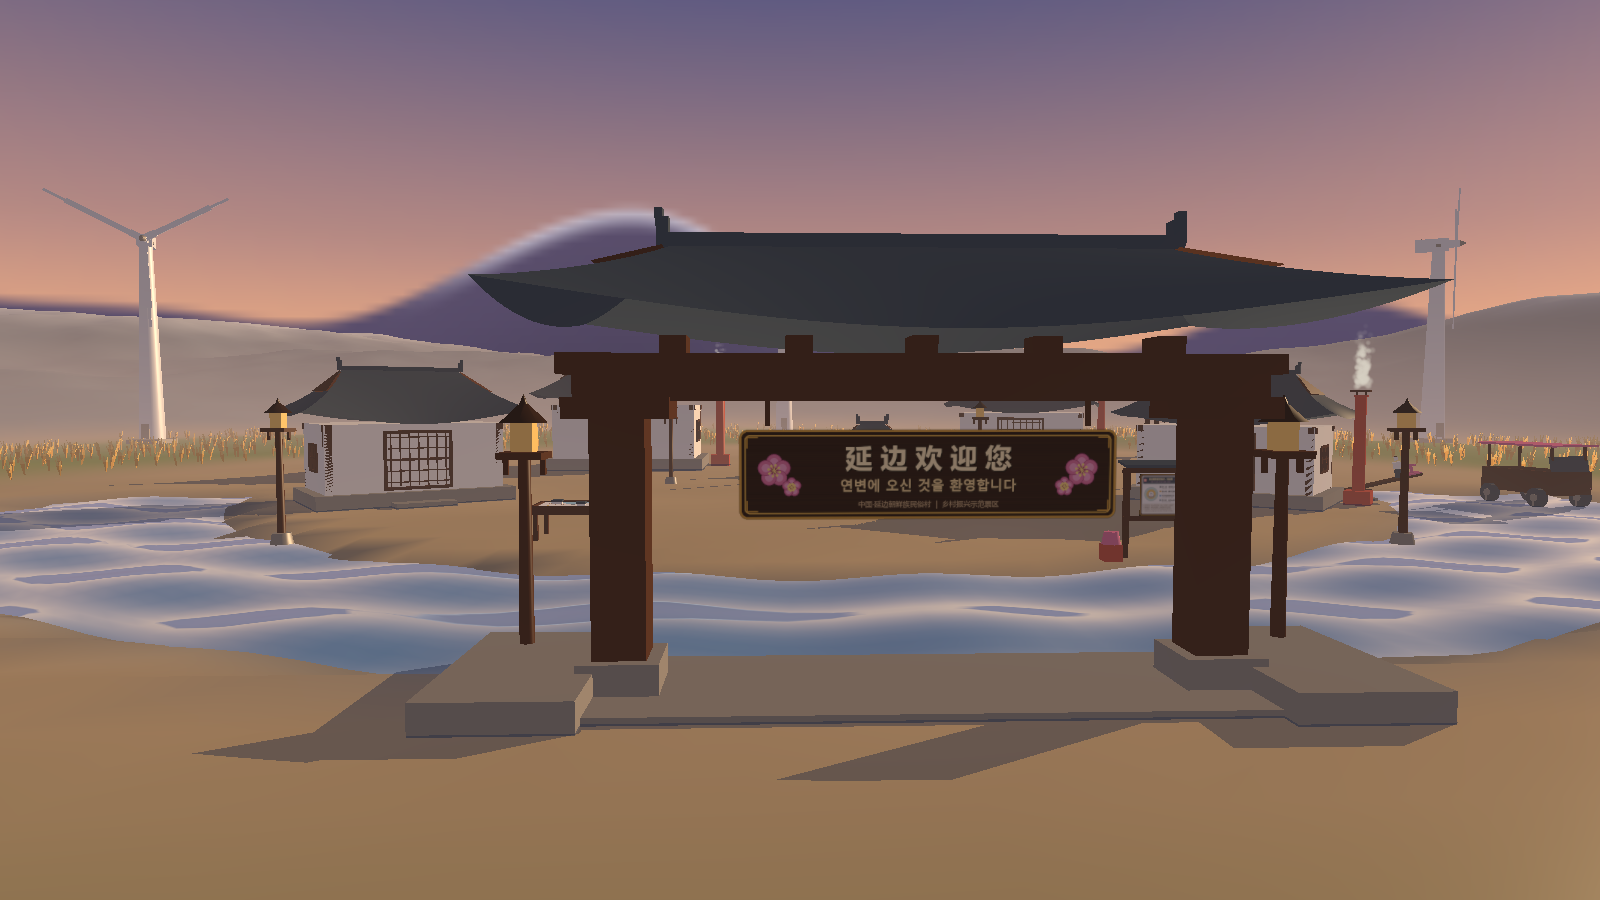
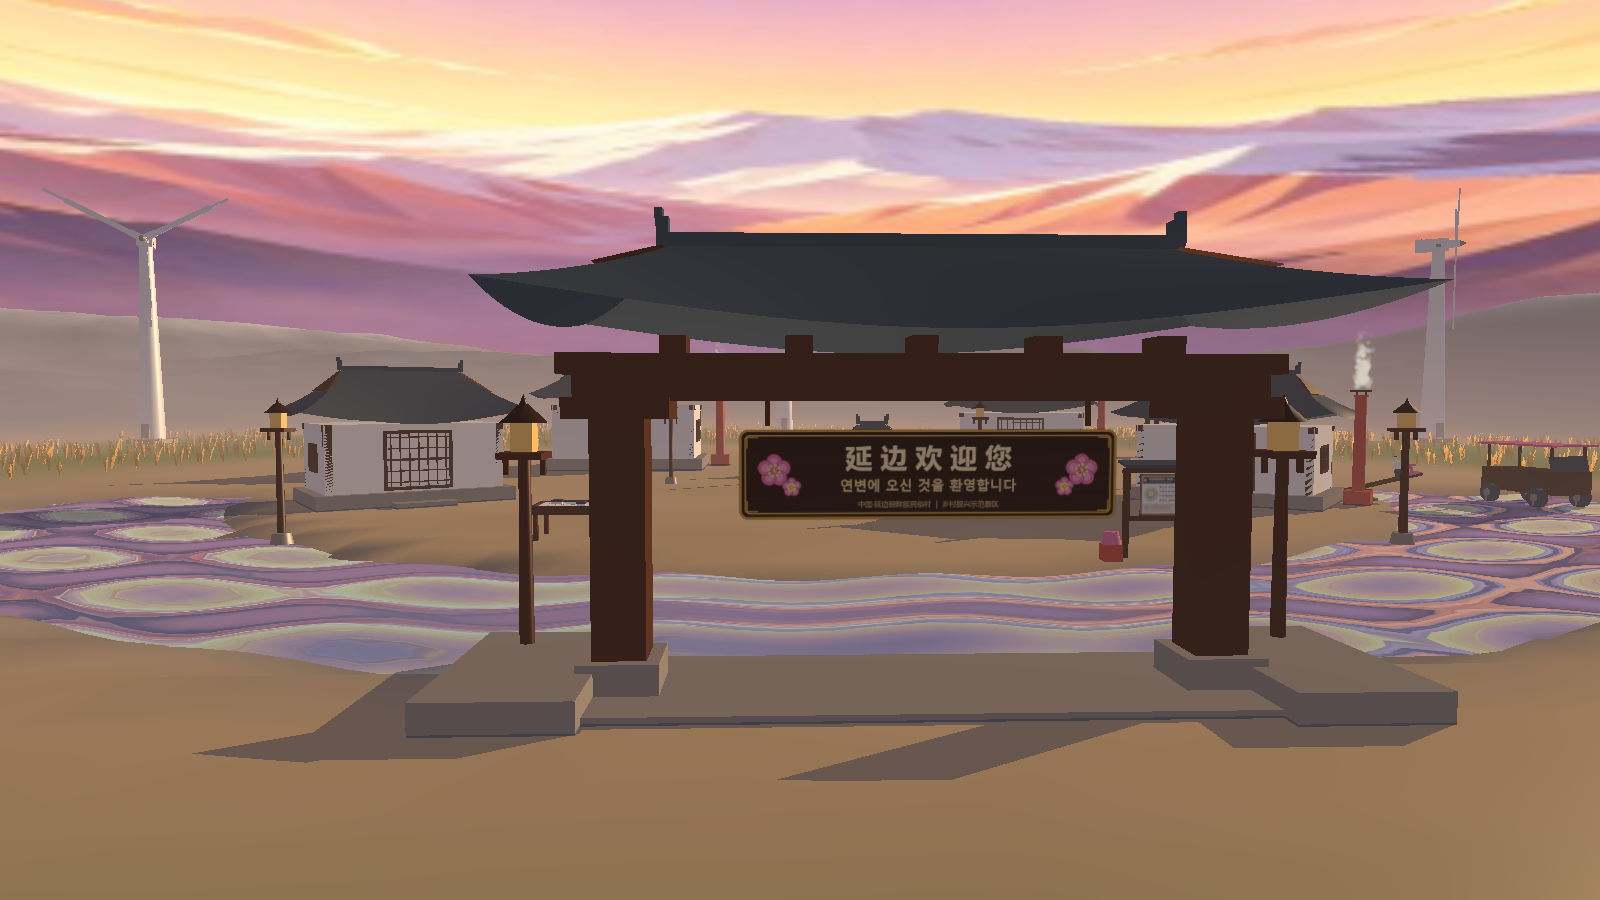
feat(skybox): integrate Seedream 5.5 360 cubemap skyboxes, concept art, and updated OpenGL renders

diff --git a/Computer Graphics[Projects]/src/fx/SkyGenerator.cpp b/Computer Graphics[Projects]/src/fx/SkyGenerator.cpp
@@ -2,11 +2,18 @@
 
 #include <glad/glad.h>
 #include <glm/glm.hpp>
+#include "stb_image.h"
 
 #include <algorithm>
 #include <cmath>
 #include <cstddef>
+#include <iostream>
+#include <string>
 #include <vector>
+
+#ifndef PROJECT_ROOT
+#define PROJECT_ROOT "."
+#endif
 
 namespace {
 
@@ -206,28 +213,53 @@ unsigned char toByte(float v) {
 
 unsigned int SkyGenerator::createProceduralCubemap(int presetType) {
     const int preset = std::clamp(presetType, 0, 2);
-    const SkyPalette pal = makePalette(preset);
-    std::vector<unsigned char> face(static_cast<size_t>(kFaceSize) * kFaceSize * 3);
+    const char* folderNames[3] = { "dawn", "noon", "night" };
+    const char* faceNames[6]   = { "px.png", "nx.png", "py.png", "ny.png", "pz.png", "nz.png" };
 
     unsigned int texture = 0;
     glGenTextures(1, &texture);
     glBindTexture(GL_TEXTURE_CUBE_MAP, texture);
 
+    // 优先尝试加载 Seedream 5.5 切片生成的 6 面全景天空盒纹理
+    stbi_set_flip_vertically_on_load(false);
+    bool loadedFromDisk = true;
     for (int f = 0; f < 6; ++f) {
-        for (int y = 0; y < kFaceSize; ++y) {
-            const float v = 2.0f * (y + 0.5f) / kFaceSize - 1.0f;
-            for (int x = 0; x < kFaceSize; ++x) {
-                const float u = 2.0f * (x + 0.5f) / kFaceSize - 1.0f;
-                const glm::vec3 dir = faceDirection(f, u, v);
-                const glm::vec3 color = shadeSky(dir, pal);
-                const size_t o = static_cast<size_t>(y * kFaceSize + x) * 3;
-                face[o + 0] = toByte(color.r);
-                face[o + 1] = toByte(color.g);
-                face[o + 2] = toByte(color.b);
-            }
+        std::string path = std::string(PROJECT_ROOT) + "/assets/skybox/" + folderNames[preset] + "/" + faceNames[f];
+        int w = 0, h = 0, ch = 0;
+        unsigned char* data = stbi_load(path.c_str(), &w, &h, &ch, 3);
+        if (!data) {
+            path = std::string("assets/skybox/") + folderNames[preset] + "/" + faceNames[f];
+            data = stbi_load(path.c_str(), &w, &h, &ch, 3);
+        }
+        if (!data) {
+            loadedFromDisk = false;
+            break;
         }
         glTexImage2D(GL_TEXTURE_CUBE_MAP_POSITIVE_X + f, 0, GL_RGB8,
-                     kFaceSize, kFaceSize, 0, GL_RGB, GL_UNSIGNED_BYTE, face.data());
+                     w, h, 0, GL_RGB, GL_UNSIGNED_BYTE, data);
+        stbi_image_free(data);
+    }
+
+    if (!loadedFromDisk) {
+        const SkyPalette pal = makePalette(preset);
+        std::vector<unsigned char> face(static_cast<size_t>(kFaceSize) * kFaceSize * 3);
+
+        for (int f = 0; f < 6; ++f) {
+            for (int y = 0; y < kFaceSize; ++y) {
+                const float v = 2.0f * (y + 0.5f) / kFaceSize - 1.0f;
+                for (int x = 0; x < kFaceSize; ++x) {
+                    const float u = 2.0f * (x + 0.5f) / kFaceSize - 1.0f;
+                    const glm::vec3 dir = faceDirection(f, u, v);
+                    const glm::vec3 color = shadeSky(dir, pal);
+                    const size_t o = static_cast<size_t>(y * kFaceSize + x) * 3;
+                    face[o + 0] = toByte(color.r);
+                    face[o + 1] = toByte(color.g);
+                    face[o + 2] = toByte(color.b);
+                }
+            }
+            glTexImage2D(GL_TEXTURE_CUBE_MAP_POSITIVE_X + f, 0, GL_RGB8,
+                         kFaceSize, kFaceSize, 0, GL_RGB, GL_UNSIGNED_BYTE, face.data());
+        }
     }
 
     glTexParameteri(GL_TEXTURE_CUBE_MAP, GL_TEXTURE_MIN_FILTER, GL_LINEAR);

diff --git a/src/fx/SkyGenerator.cpp b/src/fx/SkyGenerator.cpp
@@ -2,11 +2,18 @@
 
 #include <glad/glad.h>
 #include <glm/glm.hpp>
+#include "stb_image.h"
 
 #include <algorithm>
 #include <cmath>
 #include <cstddef>
+#include <iostream>
+#include <string>
 #include <vector>
+
+#ifndef PROJECT_ROOT
+#define PROJECT_ROOT "."
+#endif
 
 namespace {
 
@@ -206,28 +213,53 @@ unsigned char toByte(float v) {
 
 unsigned int SkyGenerator::createProceduralCubemap(int presetType) {
     const int preset = std::clamp(presetType, 0, 2);
-    const SkyPalette pal = makePalette(preset);
-    std::vector<unsigned char> face(static_cast<size_t>(kFaceSize) * kFaceSize * 3);
+    const char* folderNames[3] = { "dawn", "noon", "night" };
+    const char* faceNames[6]   = { "px.png", "nx.png", "py.png", "ny.png", "pz.png", "nz.png" };
 
     unsigned int texture = 0;
     glGenTextures(1, &texture);
     glBindTexture(GL_TEXTURE_CUBE_MAP, texture);
 
+    // 优先尝试加载 Seedream 5.5 切片生成的 6 面全景天空盒纹理
+    stbi_set_flip_vertically_on_load(false);
+    bool loadedFromDisk = true;
     for (int f = 0; f < 6; ++f) {
-        for (int y = 0; y < kFaceSize; ++y) {
-            const float v = 2.0f * (y + 0.5f) / kFaceSize - 1.0f;
-            for (int x = 0; x < kFaceSize; ++x) {
-                const float u = 2.0f * (x + 0.5f) / kFaceSize - 1.0f;
-                const glm::vec3 dir = faceDirection(f, u, v);
-                const glm::vec3 color = shadeSky(dir, pal);
-                const size_t o = static_cast<size_t>(y * kFaceSize + x) * 3;
-                face[o + 0] = toByte(color.r);
-                face[o + 1] = toByte(color.g);
-                face[o + 2] = toByte(color.b);
-            }
+        std::string path = std::string(PROJECT_ROOT) + "/assets/skybox/" + folderNames[preset] + "/" + faceNames[f];
+        int w = 0, h = 0, ch = 0;
+        unsigned char* data = stbi_load(path.c_str(), &w, &h, &ch, 3);
+        if (!data) {
+            path = std::string("assets/skybox/") + folderNames[preset] + "/" + faceNames[f];
+            data = stbi_load(path.c_str(), &w, &h, &ch, 3);
+        }
+        if (!data) {
+            loadedFromDisk = false;
+            break;
         }
         glTexImage2D(GL_TEXTURE_CUBE_MAP_POSITIVE_X + f, 0, GL_RGB8,
-                     kFaceSize, kFaceSize, 0, GL_RGB, GL_UNSIGNED_BYTE, face.data());
+                     w, h, 0, GL_RGB, GL_UNSIGNED_BYTE, data);
+        stbi_image_free(data);
+    }
+
+    if (!loadedFromDisk) {
+        const SkyPalette pal = makePalette(preset);
+        std::vector<unsigned char> face(static_cast<size_t>(kFaceSize) * kFaceSize * 3);
+
+        for (int f = 0; f < 6; ++f) {
+            for (int y = 0; y < kFaceSize; ++y) {
+                const float v = 2.0f * (y + 0.5f) / kFaceSize - 1.0f;
+                for (int x = 0; x < kFaceSize; ++x) {
+                    const float u = 2.0f * (x + 0.5f) / kFaceSize - 1.0f;
+                    const glm::vec3 dir = faceDirection(f, u, v);
+                    const glm::vec3 color = shadeSky(dir, pal);
+                    const size_t o = static_cast<size_t>(y * kFaceSize + x) * 3;
+                    face[o + 0] = toByte(color.r);
+                    face[o + 1] = toByte(color.g);
+                    face[o + 2] = toByte(color.b);
+                }
+            }
+            glTexImage2D(GL_TEXTURE_CUBE_MAP_POSITIVE_X + f, 0, GL_RGB8,
+                         kFaceSize, kFaceSize, 0, GL_RGB, GL_UNSIGNED_BYTE, face.data());
+        }
     }
 
     glTexParameteri(GL_TEXTURE_CUBE_MAP, GL_TEXTURE_MIN_FILTER, GL_LINEAR);
